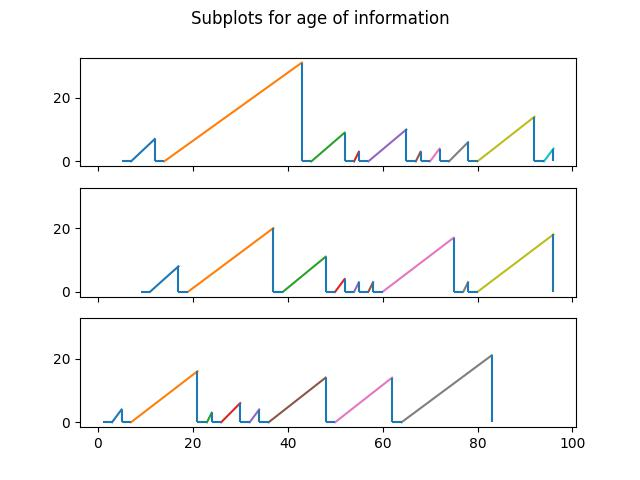
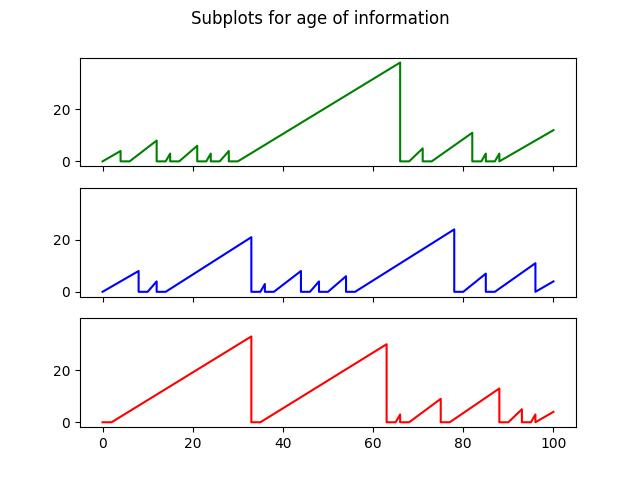
Amélioration des graphiques montrant l'AoI

diff --git a/main.py b/main.py
@@ -105,15 +105,40 @@ for i in range(len(devicesList)):
 
 fig, axs = plt.subplots(NB_DEVICES, sharex=True, sharey=True)
 fig.suptitle("Subplots for age of information")
-for k in range(NB_DEVICES):
-    for i in range(len(devicesList[k].comms_history) - 1): 
+"""for k in range(NB_DEVICES):
+    for i in range(len(devicesList[k].comms_history) - 1):
         axs[k].plot([devicesList[k].comms_history[i][1], devicesList[k].comms_history[i+1][0]], [0, devicesList[k].comms_history[i+1][0] - devicesList[k].comms_history[i][0]])
         axs[k].vlines(x = devicesList[k].comms_history[i+1][0], ymin = 0, ymax = devicesList[k].comms_history[i+1][0] - devicesList[k].comms_history[i][0])
         axs[k].hlines(y = 0, xmin = devicesList[k].comms_history[i][0], xmax = devicesList[k].comms_history[i][1])
+"""
+
+X = [[] for k in range(NB_DEVICES)]
+Y = [[] for k in range(NB_DEVICES)]
+colorGraphs = {0: 'g-', 1:'b-', 2:'r-',3:'c-', 4:'k-', 5:'m-'}
+
+for k in range(NB_DEVICES):
+    X[k].append(0)
+    Y[k].append(0)
+    X[k].append(devicesList[k].comms_history[0][0])
+    Y[k].append(devicesList[k].comms_history[0][0])
+    for i in range(len(devicesList[k].comms_history) - 1):
+        X[k].append(devicesList[k].comms_history[i][0])
+        Y[k].append(0)
+        X[k].append(devicesList[k].comms_history[i][1])
+        X[k].append(devicesList[k].comms_history[i+1][0])
+        Y[k].append(0)
+        Y[k].append(devicesList[k].comms_history[i+1][0] - devicesList[k].comms_history[i][0])
+        X[k].append(devicesList[k].comms_history[i+1][0])
+        Y[k].append(0)
     
+    if devicesList[k].comms_history[i+1][0] < SIM_LIFESPAN - SIM_TF:
+        X[k].append(SIM_LIFESPAN)
+        Y[k].append(SIM_LIFESPAN - devicesList[k].comms_history[i+1][0])
+    axs[k].plot(X[k], Y[k], colorGraphs[k%len(colorGraphs)])
+
 
 plt.savefig("AOI_graph.jpg")
-    
+
 #print(mainMonitor.db)
 #animation = snap.animate()
 #animation.save('animation.gif', writer='PillowWriter', fps=2)
